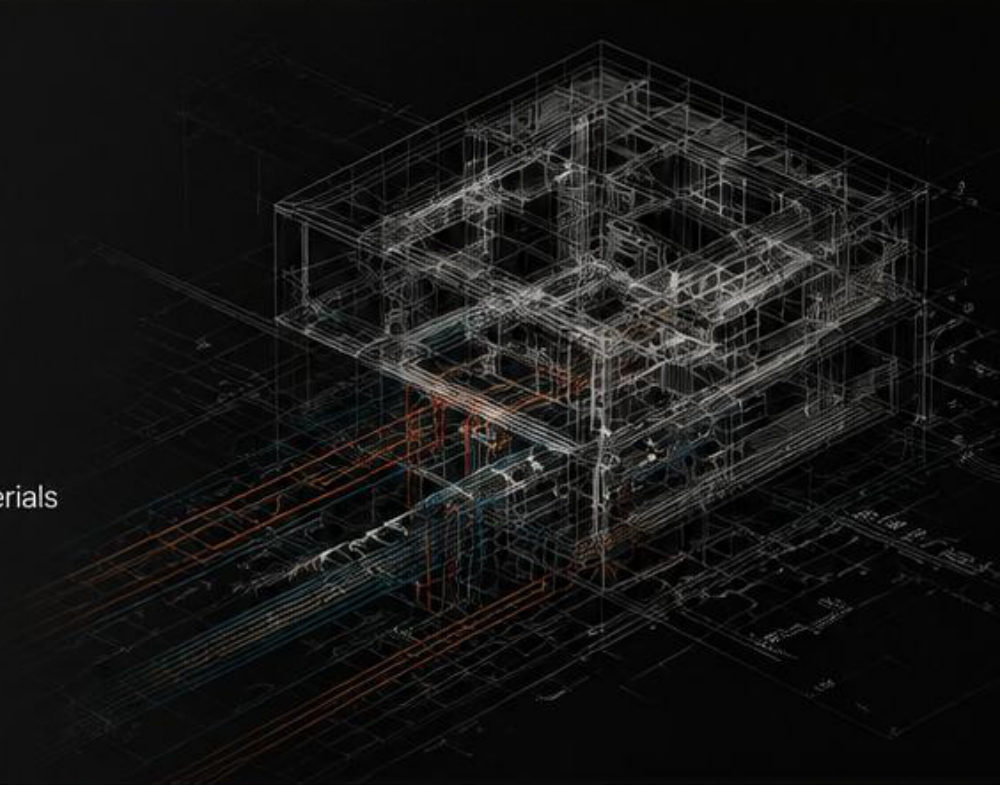
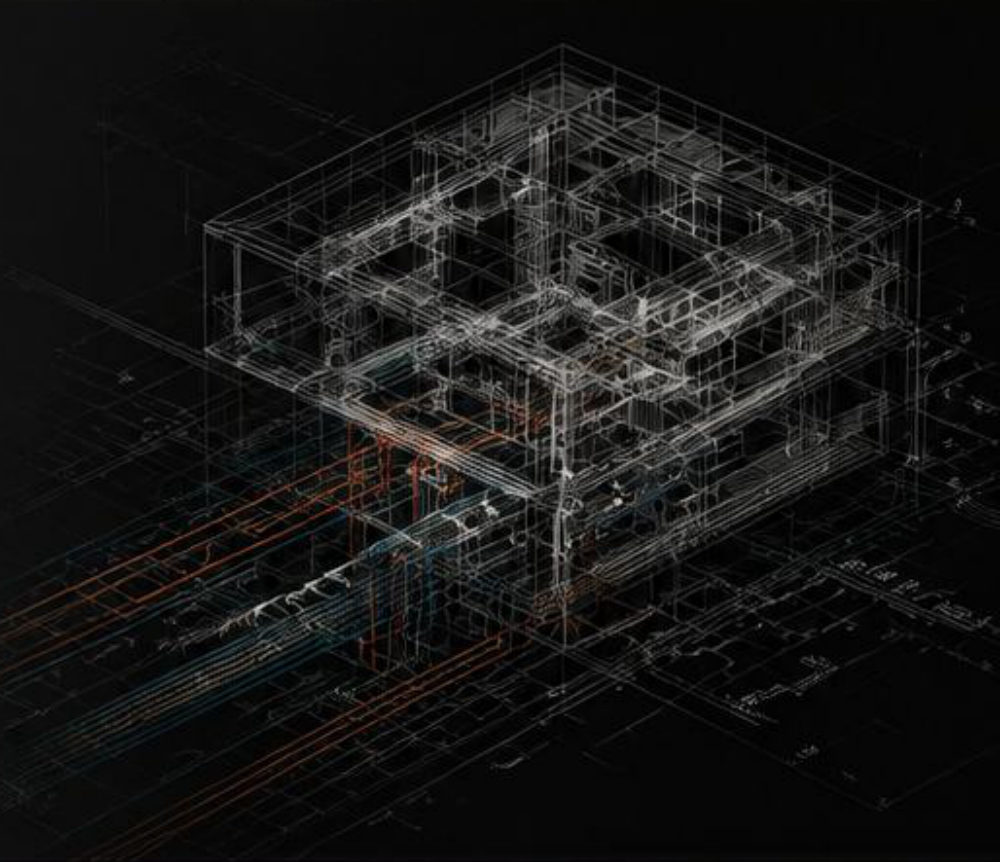
Add scroll-scrubbed frame sequence to How We Work
The section pins to the screen and scrubs a 123-frame sequence on a
canvas as the user scrolls; each step's text fades in and out with a
progress rail. Frames are built by scripts/process-frames.sh from the
four process images (or from a video later). Reduced-motion users get
a static list. Process crops re-exported without the design's text.

diff --git a/src/components/home/ProcessScroll.tsx b/src/components/home/ProcessScroll.tsx
@@ -1,0 +1,201 @@
+"use client";
+
+import React, { useCallback, useEffect, useRef } from 'react';
+import Image from 'next/image';
+import { motion, useMotionValueEvent, useReducedMotion, useScroll, useTransform, type MotionValue } from 'framer-motion';
+
+/** Frames generated by scripts/process-frames.sh (public/process-frames/frame-001.webp …). */
+const FRAME_COUNT = 123;
+const frameSrc = (i: number) => `/process-frames/frame-${String(i + 1).padStart(3, '0')}.webp`;
+
+export interface ProcessStep {
+  title: string;
+  sub: string;
+  text: string;
+}
+
+/**
+ * Scroll progress at which each step hands over to the next. They match the dissolve midpoints
+ * in the generated sequence (2.5s per step, 0.6s dissolves → 2.2s, 4.1s, 6.0s of 8.2s).
+ */
+const BOUNDARIES = [0, 0.268, 0.5, 0.732, 1];
+const FADE = 0.05;
+
+const StepText = ({ step, index, progress }: { step: ProcessStep; index: number; progress: MotionValue<number> }) => {
+  const start = BOUNDARIES[index];
+  const end = BOUNDARIES[index + 1];
+  const first = index === 0;
+  const last = index === BOUNDARIES.length - 2;
+  // Fade in just after the previous boundary and out just before the next, so steps never overlap.
+  // Stops must cover the full 0–1 range and increase: framer runs these on the browser's native
+  // scroll timeline, which throws on out-of-range stops and snaps back if the range ends early.
+  const input = first
+    ? [0, end - FADE, end, 1]
+    : last
+      ? [0, start, start + FADE, 1]
+      : [0, start, start + FADE, end - FADE, end, 1];
+  const opacity = useTransform(progress, input, first ? [1, 1, 0, 0] : last ? [0, 0, 1, 1] : [0, 0, 1, 1, 0, 0]);
+  const y = useTransform(progress, input, first ? [0, 0, -40, -40] : last ? [40, 40, 0, 0] : [40, 40, 0, 0, -40, -40]);
+
+  return (
+    <motion.div style={{ opacity, y }} className="absolute inset-0 flex flex-col justify-center">
+      <span className="text-[88px] md:text-[140px] font-bold leading-none tracking-tighter text-white">
+        {String(index + 1).padStart(2, '0')}
+      </span>
+      <h3 className="mt-6 text-2xl md:text-3xl font-medium uppercase tracking-[0.3em] text-gold">{step.title}</h3>
+      <p className="mt-4 text-lg md:text-xl text-white">{step.sub}</p>
+      <p className="mt-6 max-w-sm text-base leading-relaxed text-white/75">{step.text}</p>
+    </motion.div>
+  );
+};
+
+const RailItem = ({ index, progress }: { index: number; progress: MotionValue<number> }) => {
+  const start = BOUNDARIES[index];
+  const end = BOUNDARIES[index + 1];
+  // Full 0–1 stops for the native scroll timeline (see StepText)
+  const fill = useTransform(
+    progress,
+    index === 0 ? [0, end, 1] : index === BOUNDARIES.length - 2 ? [0, start, 1] : [0, start, end, 1],
+    index === 0 ? ['0%', '100%', '100%'] : index === BOUNDARIES.length - 2 ? ['0%', '0%', '100%'] : ['0%', '0%', '100%', '100%']
+  );
+  // Number turns gold once its step is reached (the first step is active from the start)
+  const color = useTransform(
+    progress,
+    index === 0 ? [0, 1] : [0, start - 0.01, start, 1],
+    index === 0 ? ['#E4D4A3', '#E4D4A3'] : ['rgba(255,255,255,0.4)', 'rgba(255,255,255,0.4)', '#E4D4A3', '#E4D4A3']
+  );
+  return (
+    <li className="flex items-center gap-3">
+      <motion.span style={{ color }} className="w-6 text-sm font-medium tabular-nums">{String(index + 1).padStart(2, '0')}</motion.span>
+      <span className="relative h-px w-16 overflow-hidden bg-white/20 md:w-24">
+        <motion.span style={{ width: fill }} className="absolute inset-y-0 left-0 bg-gold" />
+      </span>
+    </li>
+  );
+};
+
+/** Pinned section whose background "video" (a frame sequence on a canvas) is scrubbed by scroll. */
+export const ProcessScroll = ({ steps }: { steps: ProcessStep[] }) => {
+  const trackRef = useRef<HTMLDivElement>(null);
+  const canvasRef = useRef<HTMLCanvasElement>(null);
+  const framesRef = useRef<HTMLImageElement[]>([]);
+  const currentRef = useRef(0);
+  const reduceMotion = useReducedMotion();
+
+  const { scrollYProgress } = useScroll({ target: trackRef, offset: ['start start', 'end end'] });
+
+  /** Draw a frame cover-fitted to the canvas; falls back to the nearest loaded frame. */
+  const draw = useCallback((index: number) => {
+    const canvas = canvasRef.current;
+    const ctx = canvas?.getContext('2d');
+    if (!canvas || !ctx) return;
+    let img: HTMLImageElement | undefined;
+    for (let d = 0; d < FRAME_COUNT && !img; d++) {
+      const candidate = framesRef.current[index - d] ?? framesRef.current[index + d];
+      if (candidate?.complete && candidate.naturalWidth) img = candidate;
+    }
+    if (!img) return;
+    const { width: cw, height: ch } = canvas;
+    const scale = Math.max(cw / img.naturalWidth, ch / img.naturalHeight);
+    const w = img.naturalWidth * scale;
+    const h = img.naturalHeight * scale;
+    ctx.drawImage(img, (cw - w) / 2, (ch - h) / 2, w, h);
+  }, []);
+
+  // Size the canvas to its box at device pixel ratio
+  useEffect(() => {
+    if (reduceMotion) return;
+    const canvas = canvasRef.current;
+    if (!canvas) return;
+    const resize = () => {
+      const dpr = Math.min(window.devicePixelRatio || 1, 2);
+      canvas.width = Math.round(canvas.clientWidth * dpr);
+      canvas.height = Math.round(canvas.clientHeight * dpr);
+      draw(currentRef.current);
+    };
+    resize();
+    const observer = new ResizeObserver(resize);
+    observer.observe(canvas);
+    return () => observer.disconnect();
+  }, [draw, reduceMotion]);
+
+  // Preload frames: first frame immediately, the rest in order so scrubbing fills in progressively
+  useEffect(() => {
+    if (reduceMotion) return;
+    let cancelled = false;
+    framesRef.current = Array.from({ length: FRAME_COUNT }, (_, i) => {
+      const img = new window.Image();
+      img.decoding = 'async';
+      img.onload = () => {
+        if (!cancelled && Math.abs(i - currentRef.current) <= 1) draw(currentRef.current);
+      };
+      img.src = frameSrc(i);
+      return img;
+    });
+    return () => {
+      cancelled = true;
+    };
+  }, [draw, reduceMotion]);
+
+  useMotionValueEvent(scrollYProgress, 'change', (p) => {
+    const index = Math.min(FRAME_COUNT - 1, Math.max(0, Math.round(p * (FRAME_COUNT - 1))));
+    if (index === currentRef.current) return;
+    currentRef.current = index;
+    requestAnimationFrame(() => draw(index));
+  });
+
+  // Reduced motion: no pinning or scrubbing, just the four steps as a simple list
+  if (reduceMotion) {
+    return (
+      <ol className="grid gap-8 md:grid-cols-2">
+        {steps.map((step, i) => (
+          <li key={step.title} className="overflow-hidden rounded-[24px] bg-[#111]">
+            <div className="relative aspect-[16/10]">
+              <Image src={`/images/process-${i + 1}.jpg`} alt="" fill sizes="(min-width: 768px) 50vw, 100vw" className="object-cover" />
+            </div>
+            <div className="p-8 text-white">
+              <span className="text-6xl font-bold">{String(i + 1).padStart(2, '0')}</span>
+              <h3 className="mt-4 text-xl uppercase tracking-[0.3em] text-gold">{step.title}</h3>
+              <p className="mt-2">{step.sub}</p>
+              <p className="mt-4 text-white/75">{step.text}</p>
+            </div>
+          </li>
+        ))}
+      </ol>
+    );
+  }
+
+  return (
+    <div ref={trackRef} className="relative" style={{ height: `${steps.length * 100}svh` }}>
+      <div className="sticky top-0 h-[100svh] overflow-hidden bg-black">
+        {/* First frame as a poster until the canvas paints (and for no-JS) */}
+        <div className="absolute inset-0">
+          <Image src={frameSrc(0)} alt="" fill sizes="100vw" className="object-cover" />
+        </div>
+        <canvas ref={canvasRef} className="absolute inset-0 h-full w-full" aria-hidden="true" />
+        <div className="absolute inset-0 bg-gradient-to-r from-black/85 via-black/45 to-transparent" aria-hidden="true" />
+        <div className="absolute inset-x-0 bottom-0 h-40 bg-gradient-to-t from-black/70 to-transparent" aria-hidden="true" />
+
+        <div className="relative mx-auto h-full w-full max-w-[1320px] px-5 md:px-10 lg:px-[60px]">
+          {/* Step copy: full text for screen readers, animated copies for sighted users */}
+          <ol className="sr-only">
+            {steps.map((s) => (
+              <li key={s.title}>{s.title}: {s.sub}. {s.text}</li>
+            ))}
+          </ol>
+          <div className="relative h-full max-w-xl" aria-hidden="true">
+            {steps.map((step, i) => (
+              <StepText key={step.title} step={step} index={i} progress={scrollYProgress} />
+            ))}
+          </div>
+
+          <ol className="absolute bottom-10 left-5 flex flex-col gap-3 md:left-10 lg:left-[60px]" aria-hidden="true">
+            {steps.map((step, i) => (
+              <RailItem key={step.title} index={i} progress={scrollYProgress} />
+            ))}
+          </ol>
+        </div>
+      </div>
+    </div>
+  );
+};

diff --git a/src/components/home/Process.tsx b/src/components/home/Process.tsx
@@ -1,9 +1,9 @@
 import React from 'react';
-import Image from 'next/image';
 import { Container } from '../shared/Container';
 import { ArrowLink, SectionLabel } from '../shared/ui';
+import { ProcessScroll, type ProcessStep } from './ProcessScroll';
 
-const steps = [
+const steps: ProcessStep[] = [
   { title: 'Understand', sub: 'Brief · Site · Scope', text: 'We begin by understanding your vision, site conditions, and project objectives in detail.' },
   { title: 'Coordinate', sub: 'Planning · Engineering · Materials', text: 'We coordinate planning, engineering, and material selection to create a clear and efficient execution strategy.' },
   { title: 'Execute', sub: 'Civil · Fit-Out · MEP', text: 'Our teams execute with precision across civil construction, interior fit-out, and MEP works with strict quality control.' },
@@ -11,51 +11,21 @@ const steps = [
 ];
 
 export const Process = () => (
-  <section className="bg-black pb-24 md:pb-32">
+  <section className="bg-black pb-24 md:pb-32" aria-labelledby="process-heading">
     <Container>
       <SectionLabel tone="gold">Process</SectionLabel>
       <div className="mt-6 flex flex-col gap-8 md:flex-row md:items-end md:justify-between">
         <div>
-          <h2 className="text-5xl md:text-7xl font-medium text-gold">How We Work</h2>
+          <h2 id="process-heading" className="text-5xl md:text-7xl font-medium text-gold">How We Work</h2>
           <p className="mt-10 max-w-md text-lg text-white/75">A structured approach from the first conversation to final handover.</p>
         </div>
         <ArrowLink href="/contact" className="w-fit text-white">Start a Project</ArrowLink>
       </div>
-
-      <ol className="mx-auto mt-20 flex max-w-[864px] flex-col gap-1">
-        {steps.map((step, i) => {
-          const dark = i % 2 === 1;
-          const bg = dark ? '#111111' : '#E9E7E3';
-          return (
-            <li
-              key={step.title}
-              className={`relative grid overflow-hidden md:min-h-[445px] md:grid-cols-[1fr_1.3fr] ${dark ? 'text-white' : 'text-ink'}`}
-              style={{ backgroundColor: bg }}
-            >
-              <div className="relative z-10 flex gap-8 p-8 md:p-10 md:pr-0">
-                <span className={`relative mt-2 w-px shrink-0 ${dark ? 'bg-white/50' : 'bg-ink/50'}`} aria-hidden="true">
-                  <span className={`absolute -left-1 -top-1 h-2.5 w-2.5 rounded-full ${dark ? 'bg-white' : 'bg-ink'}`} />
-                </span>
-                <div className="flex flex-col justify-center py-6">
-                  <span className="text-8xl font-bold leading-none tracking-tighter">{String(i + 1).padStart(2, '0')}</span>
-                  <h3 className="mt-8 text-2xl font-medium uppercase tracking-[0.3em]">{step.title}</h3>
-                  <p className="mt-4 text-lg">{step.sub}</p>
-                  <p className={`mt-6 max-w-[230px] text-sm leading-relaxed ${dark ? 'text-white/75' : 'text-ink/70'}`}>{step.text}</p>
-                </div>
-              </div>
-              <div className="relative min-h-[260px]">
-                <Image src={`/images/process-${i + 1}.jpg`} alt="" fill sizes="(min-width: 768px) 490px, 100vw" className="object-cover" />
-                {/* Blend the photo into the panel colour, as in the design */}
-                <div
-                  className="absolute inset-0 md:bg-[linear-gradient(90deg,var(--panel)_0%,transparent_35%)] bg-[linear-gradient(180deg,var(--panel)_0%,transparent_30%)]"
-                  style={{ '--panel': bg } as React.CSSProperties}
-                  aria-hidden="true"
-                />
-              </div>
-            </li>
-          );
-        })}
-      </ol>
     </Container>
+
+    {/* Scroll-scrubbed frame sequence: pins to the screen while the four steps play through */}
+    <div className="mt-16 md:mt-20">
+      <ProcessScroll steps={steps} />
+    </div>
   </section>
 );
